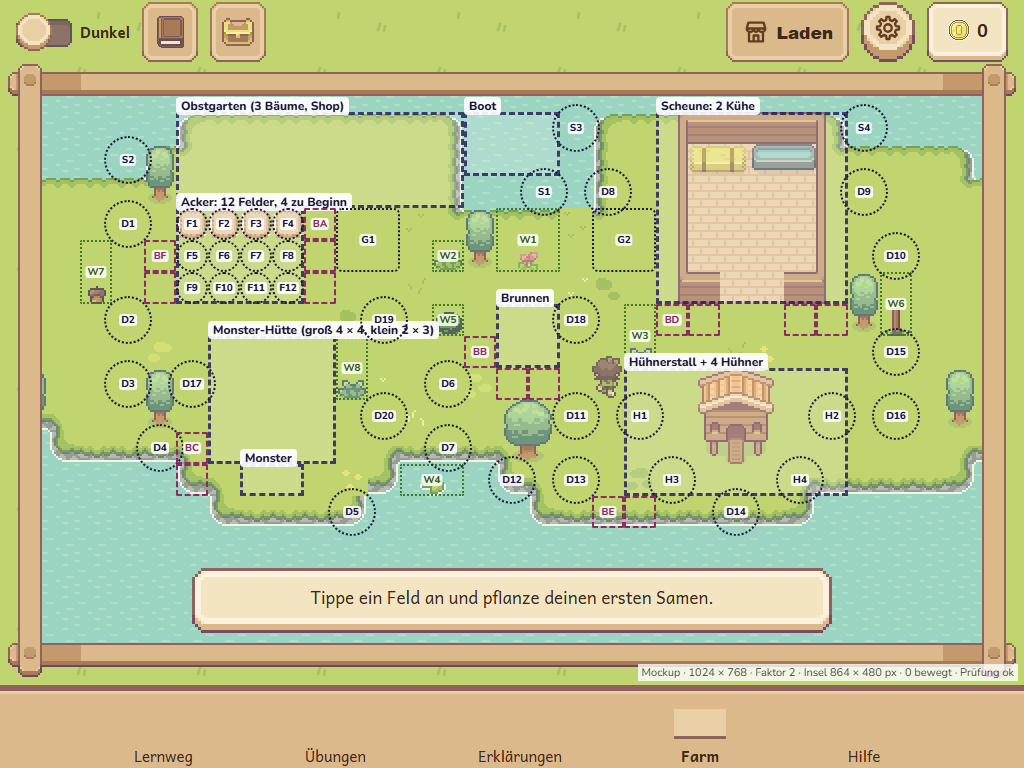
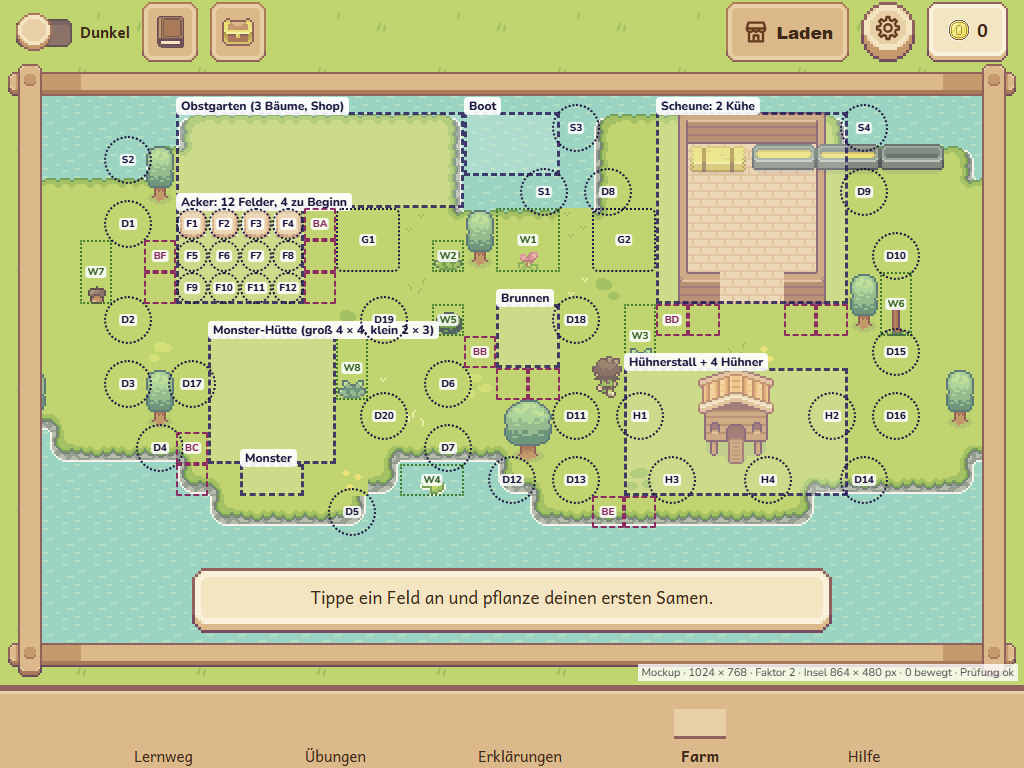
Farm Schritt 1: Rückmeldungen von Jazz
Meer nur im Rahmen, Trog mit Heu und antippbar wie der Napf, Huhn nicht am Ufer, Hunger-Meldung mit Hinweis,
Meldung oben in der Kopfzeile, Insel senkrecht mittig; Mockup: Herbst-Eiche, Trog leer.

Changed region(s): [[0.6875, 0.5938, 0.875, 0.6875], [0.7188, 0.1875, 0.9375, 0.2188]]

diff --git a/src/schueler/Farm.tsx b/src/schueler/Farm.tsx
@@ -22,7 +22,9 @@ import { FarmTier } from './FarmTier'
 
 const TEMPO = 50 // Grafik-Pixel pro Sekunde
 const RAND_UNTEN = 8 // Luft zwischen Farm und Menü unten (CSS-Pixel)
+const MEER_RAND = { oben: 10, seite: 12 } // durchsichtiger Außenrand des Rahmenbilds (2-fach)
 const RAHMEN_B = 68, RAHMEN_H = 66 // Holzrahmen des Spielfensters links + rechts bzw. oben + unten (CSS-Pixel)
+const flaecheVon = (o: Ort, breite: number): Ort[] => Array.from({ length: breite }, (_, i) => ({ x: o.x + i, y: o.y }))
 const ruhig = () => window.matchMedia('(prefers-reduced-motion: reduce)').matches
 const TIER_NAME: Record<string, string> = { huhn: 'Huhn', kuh: 'Kuh' }
 // Mitte einer Kachel, Füße der Figur etwas unterhalb der Mitte
@@ -44,8 +46,8 @@ export function Farm({ token, shop, album, figur: figurName, nachFigur }: { toke
   const [mal, setMal] = useState(2)
   const [flaeche, setFlaeche] = useState({ breite: 0, hoehe: 0 }) // Innenfläche des Spielfensters (ohne Holzrahmen)
   // Jazz 2026-11-17 (E5): Sammelalbum, Vorrat, Laden und Zahnrad stehen in der Kopfzeile der Seite (Plätze legt SchuelerBereich an)
-  const [kopf, setKopf] = useState<{ links: HTMLElement | null; rechts: HTMLElement | null }>({ links: null, rechts: null })
-  useEffect(() => setKopf({ links: document.getElementById('kopf-links'), rechts: document.getElementById('kopf-rechts') }), [])
+  const [kopf, setKopf] = useState<{ links: HTMLElement | null; mitte: HTMLElement | null; rechts: HTMLElement | null }>({ links: null, mitte: null, rechts: null })
+  useEffect(() => setKopf({ links: document.getElementById('kopf-links'), mitte: document.getElementById('kopf-mitte'), rechts: document.getElementById('kopf-rechts') }), [])
   const [figur, setFigur] = useState({ ...mitte(FIGUR_START), richtung: 4, dauer: 0 })
   const rahmen = useRef<HTMLDivElement>(null)
   const leinwand = useRef<HTMLCanvasElement>(null)
@@ -87,6 +89,9 @@ export function Farm({ token, shop, album, figur: figurName, nachFigur }: { toke
     }
     const beob = new ResizeObserver(passen)
     beob.observe(el)
+    // die Meldung oben kann die Kopfzeile höher machen: dann neu rechnen, damit die Seite nicht scrollt
+    const kopfzeile = document.querySelector('.muenzen-stand')
+    if (kopfzeile) beob.observe(kopfzeile)
     window.addEventListener('resize', passen)
     return () => {
       beob.disconnect()
@@ -104,7 +109,7 @@ export function Farm({ token, shop, album, figur: figurName, nachFigur }: { toke
   useEffect(() => {
     const ctx = leinwand.current?.getContext('2d')
     if (!ctx || !daten) return
-    const namen = ['wasser', 'gras', 'gras_deko', 'feld', 'wand', 'heu', 'trog', 'baum', 'baum_klein', 'stall'] as const
+    const namen = ['wasser', 'gras', 'gras_deko', 'feld', 'wand', 'heu', 'baum', 'baum_klein', 'stall'] as const
     const bilder = Object.fromEntries(namen.map((n) => [n, Object.assign(new Image(), { src: GRAFIK[n].url })])) as Record<(typeof namen)[number], HTMLImageElement>
     const kachel = (name: (typeof namen)[number], nummer: number, x: number, y: number) => {
       const q = einzelbild(GRAFIK[name], nummer)
@@ -121,13 +126,12 @@ export function Farm({ token, shop, album, figur: figurName, nachFigur }: { toke
       ctx.drawImage(bilder.stall, STALL.x * KACHEL, STALL.y * KACHEL)
       for (const k of scheunenKacheln()) kachel('wand', k.nummer, k.x, k.y)
       ctx.drawImage(bilder.heu, HEU.x * KACHEL, HEU.y * KACHEL)
-      ctx.drawImage(bilder.trog, trogVoll ? 0 : 64, 0, 32, 16, TROG.x * KACHEL, TROG.y * KACHEL, 32, 16)
       for (const b of BAEUME) ctx.drawImage(bilder[b.grafik], b.x * KACHEL, b.y * KACHEL)
     })
     return () => {
       aktiv = false
     }
-  }, [daten === null, felder, trogVoll])
+  }, [daten === null, felder])
 
   useEffect(() => () => window.clearTimeout(ankunft.current), [])
 
@@ -192,10 +196,10 @@ export function Farm({ token, shop, album, figur: figurName, nachFigur }: { toke
   }
 
   const px = (kacheln: number) => kacheln * KACHEL * mal
-  // Lage der Insel im Spielfenster: Kern (27 Kacheln) waagerecht mittig, oben eine halbe Wasserreihe angeschnitten (Rahmen 34 bzw. 32 px)
+  // Lage der Insel im Spielfenster: Kern (27 Kacheln) waagerecht und senkrecht mittig (Rahmen 34 bzw. 32 px)
   const insel = {
     links: 34 + Math.floor((flaeche.breite - 27 * KACHEL * mal) / 2) - RAND * KACHEL * mal,
-    oben: 32 + Math.min(-Math.floor((KACHEL * mal) / 2), Math.floor((flaeche.hoehe - ZEILEN * KACHEL * mal) / 2)),
+    oben: 32 + Math.floor((flaeche.hoehe - ZEILEN * KACHEL * mal) / 2), // unten liegt keine Meldung mehr: Insel senkrecht mittig
   }
   // Deko lässt sich im Fenster „Farm einrichten“ ausblenden (gekauft bleibt sie)
   const dekoArten = daten.dinge.map((d) => d.artikel).filter((id) => !['huhn', 'kuh'].includes(id))
@@ -319,6 +323,29 @@ export function Farm({ token, shop, album, figur: figurName, nachFigur }: { toke
     )
   }
 
+  // Jazz 2026-11-17: Napf und Trog antippen öffnet das Füttern für das erste hungrige Tier daran (sonst das erste)
+  function futterKnopf(key: string, name: string, tiere: { id: string; satt: boolean }[], grafik: Grafik, nummer: number, o: Ort, breite: number, bild: { x: number; y: number }) {
+    const ziel = tiere.find((t) => !t.satt) ?? tiere[0]
+    return (
+      <button
+        key={key}
+        type="button"
+        className="farm-ding farm-futter"
+        style={{ left: px(o.x), top: px(o.y), width: px(breite), height: px(1), zIndex: (o.y + 1) * KACHEL }}
+        aria-label={!tiere.length ? `${name}, leer` : ziel.satt ? `${name}, voll` : `${name}, leer: antippen zum Füttern`}
+        onClick={() =>
+          gehe(nebenan(flaecheVon(o, breite)), () =>
+            ziel ? setMenue({ art: 'tier', id: ziel.id }) : setMeldung(name === 'Trog' ? 'Hier fressen deine Kühe. Kühe gibt es im Laden.' : 'Hier fressen deine Hühner. Hühner gibt es im Laden.'),
+          )
+        }
+      >
+        <span className="farm-ding" style={{ left: bild.x - px(o.x), top: bild.y - px(o.y) }}>
+          <Sprite grafik={grafik} nummer={nummer} mal={mal} />
+        </span>
+      </button>
+    )
+  }
+
   const tier = menue?.art === 'tier' ? daten.tiere.find((t) => t.id === menue.id) : undefined
 
   // Lehrkraft 2026-11-12: statt Haken sagt die Figur, was reif ist
@@ -328,7 +355,14 @@ export function Farm({ token, shop, album, figur: figurName, nachFigur }: { toke
   ]
   // Jazz 2026-11-17 (E4): Meldung, solange ein Tier hungrig ist
   const hungrigH = huehner.some((t) => !t.satt), hungrigK = kuehe.some((t) => !t.satt)
-  const hungerText = hungrigH && hungrigK ? 'Deine Tiere sind hungrig.' : hungrigH ? 'Deine Hühner sind hungrig.' : hungrigK ? 'Deine Kühe sind hungrig.' : null
+  // Jazz 2026-11-17: die Meldung sagt auch, was man antippt
+  const hungerText = hungrigH && hungrigK
+    ? 'Deine Tiere sind hungrig. Tippe ein Tier, den Napf oder den Trog an.'
+    : hungrigH
+      ? 'Deine Hühner sind hungrig. Tippe ein Huhn oder den Napf an.'
+      : hungrigK
+        ? 'Deine Kühe sind hungrig. Tippe eine Kuh oder den Trog an.'
+        : null
   const grundText = hungerText ?? (daten.pflanzen.length === 0 && felder > 0 ? 'Tippe ein Feld an und pflanze deinen ersten Samen.' : 'Tippe irgendwohin, dann läuft deine Figur hin. Tippe Felder, Tiere und Bäume an.')
   const blasenText = reifes.length > 1 ? 'Ich kann mehrere Dinge ernten!' : reifes.length ? `${reifes[0]} kann geerntet werden!` : null
 
@@ -363,6 +397,20 @@ export function Farm({ token, shop, album, figur: figurName, nachFigur }: { toke
           </>,
           kopf.rechts,
         )}
+      {/* Usability-Test 2026-11-13: Meldungen an festem Platz; Jazz 2026-11-17: als Papier-Schild oben in der Kopfzeile (Mitte) */}
+      {kopf.mitte &&
+        createPortal(
+          <div className="farm-meldung">
+            {fehler ? (
+              <p role="alert">{fehler}</p>
+            ) : (
+              <p role="status" className={meldung || hungerText ? undefined : 'leise'}>
+                {meldung ?? grundText}
+              </p>
+            )}
+          </div>,
+          kopf.mitte,
+        )}
       {/* Jazz 2026-11-17: im Hochformat nur dieser Hinweis (bausteine.css) */}
       <p className="farm-drehen" role="status">
         Dreh dein iPad, dann siehst du deine Farm.
@@ -371,19 +419,11 @@ export function Farm({ token, shop, album, figur: figurName, nachFigur }: { toke
         {/* Jazz 2026-11-14: Holzrahmen wie ein Spielfenster; liegt über dem Rand (bausteine.css), innen Meer in Kachelgröße */}
         <div
           className="spiel-fenster"
-          style={{ height: flaeche.hoehe + RAHMEN_H, backgroundImage: `url(${GRAFIK.wasser.url})`, backgroundSize: px(1), backgroundPosition: `${insel.links}px ${insel.oben}px` }}
+          style={{ height: flaeche.hoehe + RAHMEN_H }}
         >
-        {/* Usability-Test 2026-11-13: Meldungen an festem Platz; Jazz 2026-11-15: als Papier-Banner unten im Meer */}
-        <div className="farm-meldung">
-          {fehler ? (
-            <p role="alert">{fehler}</p>
-          ) : (
-            <p role="status" className={meldung || hungerText ? undefined : 'leise'}>
-              {meldung ?? grundText}
-            </p>
-          )}
-        </div>
-        <div className="farm-landschaft" style={{ width: px(SPALTEN), height: px(ZEILEN), left: insel.links, top: insel.oben }} onClick={inDieLandschaft}>
+        {/* Meer und Insel nur innerhalb des Rahmens: das Rahmenbild ist außen 10 bis 12 px durchsichtig (MEER_RAND), dort nichts zeigen */}
+        <div className="farm-meer" style={{ inset: `${MEER_RAND.oben}px ${MEER_RAND.seite}px ${MEER_RAND.seite}px`, backgroundImage: `url(${GRAFIK.wasser.url})`, backgroundSize: px(1), backgroundPosition: `${insel.links - MEER_RAND.seite}px ${insel.oben - MEER_RAND.oben}px` }}>
+        <div className="farm-landschaft" style={{ width: px(SPALTEN), height: px(ZEILEN), left: insel.links - MEER_RAND.seite, top: insel.oben - MEER_RAND.oben }} onClick={inDieLandschaft}>
           <canvas ref={leinwand} width={SPALTEN * KACHEL} height={ZEILEN * KACHEL} style={{ width: px(SPALTEN), height: px(ZEILEN) }} aria-hidden="true" />
 
           {Array.from({ length: felder }, (_, feld) => {
@@ -449,8 +489,9 @@ export function Farm({ token, shop, album, figur: figurName, nachFigur }: { toke
           {NAPF_PLAETZE.map((o, n) => {
             const seine = huehner.filter((_, i) => i % 2 === n)
             if (!seine.length) return null
-            return <Ding key={`napf${n}`} grafik={GRAFIK.napf} nummer={seine.every((t) => t.satt) ? 1 : 0} x={px(o.x) + mal} y={px(o.y) + 8 * mal} mal={mal} z={(o.y + 1) * KACHEL} />
+            return futterKnopf(`napf${n}`, 'Napf', seine, GRAFIK.napf, seine.every((t) => t.satt) ? 1 : 0, o, 1, { x: px(o.x) + mal, y: px(o.y) + 8 * mal })
           })}
+          {futterKnopf('trog', 'Trog', kuehe, GRAFIK.trog, trogVoll ? 0 : 2, TROG, 2, { x: px(TROG.x), y: px(TROG.y) })}
           {huehner.map((t, i) => tierKnopf(t, HUHN_PLAETZE[i], 1, i))}
           {kuehe.map((t, i) => tierKnopf(t, KUH_PLAETZE[i], 2, i))}
           {daten.liegen.map((d, i) => {
@@ -514,6 +555,7 @@ export function Farm({ token, shop, album, figur: figurName, nachFigur }: { toke
               {blasenText}
             </span>
           )}
+        </div>
         </div>
         </div>
       </div>

diff --git a/src/design/bausteine.css b/src/design/bausteine.css
@@ -661,14 +661,14 @@ p { margin: 0; text-wrap: pretty; max-width: 65ch; }
 .farm-landschaft canvas { display: block; image-rendering: pixelated; clip-path: inset(10px 12px 12px 12px); }
 .farm-landschaft .sprite { image-rendering: pixelated; }
 .farm-ding { position: absolute; pointer-events: none; line-height: 0; }
-.farm-feld, .farm-tier, .farm-liegt, .farm-baum, .farm-monster {
+.farm-feld, .farm-tier, .farm-liegt, .farm-baum, .farm-monster, .farm-futter {
   position: absolute; display: grid; place-items: center; line-height: 0;
   padding: 0; border: none; background: none; cursor: pointer; pointer-events: auto;
 }
 /* Tippfläche mindestens 48 px, auch wenn Feld oder Huhn kleiner gezeichnet sind */
-.farm-feld::before, .farm-tier::before, .farm-liegt::before, .farm-baum::before, .farm-monster::before { content: ''; position: absolute; inset: min(0px, calc((100% - 48px) / 2)); }
+.farm-feld::before, .farm-tier::before, .farm-liegt::before, .farm-baum::before, .farm-monster::before, .farm-futter::before { content: ''; position: absolute; inset: min(0px, calc((100% - 48px) / 2)); }
 .farm-feld[aria-pressed='true'] { outline: 3px solid var(--color-aktion); outline-offset: 1px; }
-.farm-feld:focus-visible, .farm-tier:focus-visible, .farm-liegt:focus-visible, .farm-baum:focus-visible, .farm-monster:focus-visible { outline: 3px solid var(--color-aktion); }
+.farm-feld:focus-visible, .farm-tier:focus-visible, .farm-liegt:focus-visible, .farm-baum:focus-visible, .farm-monster:focus-visible, .farm-futter:focus-visible { outline: 3px solid var(--color-aktion); }
 /* Pflanzen stehen mitten im Feld (Lehrkraft 2026-11-12) */
 /* Obstbäume: Bild 48 × 48 ragt über die 2 × 2 Kacheln hinaus; stehen still, nur beim Ernten fallen die Früchte einmal */
 .farm-baum__bild { position: absolute; line-height: 0; pointer-events: none; }
@@ -952,7 +952,16 @@ a.ranke__text:focus-visible { outline: 3px solid var(--color-aktion); outline-of
 /* Die Farm endet schon über dem Menü unten (Farm.tsx rechnet die Höhe aus): kein Abstand darunter, sonst scrollt die Seite */
 .garten-seite--farm { padding-bottom: 0; }
 .kopf-knoepfe { display: flex; align-items: center; gap: var(--space-xs); }
-.kopf-knoepfe--rechts { margin-left: auto; }
+/* Meldung oben in der Mitte der Kopfzeile: Papier-Schild, nimmt den freien Platz, darf zweizeilig werden */
+.garten-seite--farm .muenzen-stand { flex-wrap: nowrap; }
+.kopf-mitte { flex: 1 1 0; min-width: 0; display: flex; justify-content: center; }
+.kopf-mitte .farm-meldung {
+  max-width: 100%; box-sizing: border-box; padding: 2px var(--space-xs); border: solid transparent; border-width: 10px;
+  border-image: url('../grafik/tafel.png') 5 fill / 10px; image-rendering: pixelated;
+  color: var(--color-album-tinte); text-align: center; font-size: 17px; line-height: 1.25;
+}
+.kopf-mitte .farm-meldung p { margin: 0; }
+.kopf-mitte .farm-meldung .leise { color: var(--color-album-tinte); }
 .farm-bildknopf--laden {
   width: auto; display: inline-flex; gap: var(--space-xs); padding: 0 var(--space-xs); align-items: center;
   color: var(--color-album-tinte); font-weight: 800; font-size: 17px; line-height: 1; text-decoration: none;
@@ -963,6 +972,7 @@ a.ranke__text:focus-visible { outline: 3px solid var(--color-aktion); outline-of
 .garten-seite--farm .garten-seite__inhalt { max-width: none; }
 .farm-rahmen { overflow: hidden; }
 .farm-rahmen > .spiel-fenster { width: 100%; box-sizing: border-box; overflow: hidden; background-repeat: repeat; image-rendering: pixelated; }
+.farm-meer { position: absolute; overflow: hidden; image-rendering: pixelated; }
 .farm-rahmen .farm-landschaft { position: absolute; margin: 0; }
 .farm-rahmen .farm-landschaft canvas { clip-path: none; }
 .farm-rahmen .farm-meldung { max-width: calc(100% - 100px); }

diff --git a/docs/farm/farm-mockup.js b/docs/farm/farm-mockup.js
@@ -37,7 +37,7 @@ const OBSTBAEUME = [{ x: 3, y: 1, n: 'Orange' }, { x: 6, y: 1, n: 'Pfirsich' }, 
 const SCHEUNE = { x: 18, y: 1, b: 6, h: 6 }
 const KUEHE = [{ x: 19, y: 3 }, { x: 21, y: 3 }] // je 2 × 2, höchstens 2 (Jazz 2026-11-17)
 const STALL = { x: 19, y: 9 } // 3 × 3
-const HUEHNER = [{ x: 17, y: 10 }, { x: 23, y: 10 }, { x: 18, y: 12 }, { x: 22, y: 12 }]
+const HUEHNER = [{ x: 17, y: 10 }, { x: 23, y: 10 }, { x: 18, y: 12 }, { x: 21, y: 12 }] // Jazz 2026-11-17: Huhn 4 nicht am Ufer
 // Jazz 2026-11-17: Hütte weiter oben, der Eingang zeigt nicht mehr aufs Wasser. Platz 4 × 4 für die große Hütte (heutiges Bild);
 // kleine Monster (Gespenst, Spinnen, Maus) bekommen eine kleine Hütte 2 × 3 unten mittig auf diesem Platz:
 // Jazz 2026-11-17: der kleine Hühnerstall mit einem Fenster aus dem Premium-Paket (Chikcen_Houses.png, 6 Dachfarben)
@@ -52,7 +52,7 @@ const FIGUR = { x: 16, y: 8 } // Füße auf Zeile 9
 const WACHSEND = WACHS
 // Deko-Plätze in drei Größen: klein 1 × 1 (D), groß 2 × 2 (G), im Wasser 1 × 1 (S)
 const DEKO = [[1, 4], [1, 7], [1, 9], [2, 11], [8, 13], [11, 9], [11, 11], [16, 3], [24, 3], [25, 5],
-  [15, 10], [13, 12], [15, 12], [20, 13], [25, 8], [25, 10],
+  [15, 10], [13, 12], [15, 12], [24, 12], [25, 8], [25, 10],
   // Jazz 2026-11-17: nicht in einer Reihe, sondern wie zufällig: Baumstumpf beim Baum, Laterne am Brunnen, Briefkasten am Hofweg, Fels am Ufer
   [3, 9], [15, 7], [9, 7], [9, 10]].map(([x, y]) => ({ x, y }))
 // Jazz 2026-11-17: mehr Blumen. Blumenbeete aus 2 bis 4 Kacheln; die Blumen eines Beets stehen dicht (wie die Felder),
@@ -176,7 +176,7 @@ async function zeichnen() {
     const tuer = y === SCHEUNE.y + SCHEUNE.h - 1 && (x === 20 || x === 21)
     teil(B.wand, tuer ? 4 : ze * 3 + sp, 3, x, y)
   }
-  ctx.drawImage(B.heu, 19 * K, 2 * K); ctx.drawImage(B.trog, 21 * K, 2 * K)
+  ctx.drawImage(B.heu, 19 * K, 2 * K); ctx.drawImage(B.trog, 64, 0, 32, 16, 21 * K, 2 * K, 32, 16) // leerer Trog (Bild 3 von 3), Jazz E4
   ctx.drawImage(B.stall, STALL.x * K, STALL.y * K)
   ctx.setTransform(1, 0, 0, 1, 0, 0)
 
@@ -247,7 +247,7 @@ function volleFarm(p, setze, platzhalter) {
   const napf = `<div class="sprite" style="width:${14 * m}px;height:${8 * m}px;margin:${8 * m}px 0 0 ${m}px;background:url('../../assets/neu/napf_1.png') 0 0/${14 * m}px ${8 * m}px"></div>`
   ding(napf, 17, 9, 1, 1) // Napf steht über dem Huhn, so bleibt rechts vom Stall Luft
   ding(napf, 23, 9, 1, 1)
-  platzhalter('Trog leer', 21, 2, 2, 1)
+  // leerer Trog steht schon im Hintergrund (Bild 3 von 3)
   // Monster (Maus) vor seiner Hütte (Dach Nr. 3), läuft hin und her; sein Geschenk liegt daneben und hüpft
   // Die Maus ist ein kleines Monster: kleiner Hühnerstall (32 × 48, lila Dach) als Hütte.
   // shortcut: liest das Bild direkt aus dem Paketordner assets/ (nicht im Repo, nur auf dem Rechner der Lehrkraft); im Spiel käme es nach src/grafik/

diff --git a/docs/farm/wachsende-deko.js b/docs/farm/wachsende-deko.js
@@ -8,6 +8,9 @@ const SEEROSE = { u: PAKET + 'Sprout Sorry pack/Early Access/Plant update 2/Cher
 const BAEUME2 = { u: PAKET + 'Sprout Sorry pack/Early Access/Plant update 2/Trees, stumps and bushes v2.png', w: 192, h: 128 }
 // Jazz: Eiche hellgrün, Beerenbusch dunkelgrün, damit sie sich von den Obstbäumen (Türkisgrün) abheben (Regeln aus farben.js)
 const EICHE_GRUEN = rampe('tuerkisgruen', 'gruen')
+// Jazz 2026-11-17: Eiche hebt sich noch zu wenig ab, darum Herbst-Eiche: kleiner Herbstbaum aus dem Halloween-Bogen, Stufe 4 herbstlich gefärbt
+const HERBST = { u: PAKET + 'Sprout Sorry pack/Early Access/halloween/fall_trees.png', w: 240, h: 96 }
+const EICHE_HERBST = rampe('tuerkisgruen', 'orange')
 const BUSCH_GRUEN = rampe('tuerkisgruen', 'gruen', -2)
 const GRAS_WIE_LAVENDEL = rampe('tuerkisgruen', 'gruen')
 // Neue Bilder: Vogelhaus, Lavendel, Napf von Claude nach den Gemini-Vorlagen von Jazz gezeichnet (handgezeichnet.cjs); liegen in assets/neu/ (nicht im Repo)
@@ -38,7 +41,7 @@ const WACHS = [
     ['Vogelhaus mit Futter', NEU('vogelhaus_4', 14, 32)], ['Vogel sitzt auf dem Dach', NEU('vogelhaus_5', 14, 32)]] },
   { n: 'W7', name: 'Eiche', x: 0, y: 5, b: 1, h: 2, stufen: [
     ['Eichel', [BAEUME2, 3, 4, 9, 9], [EICHE_GRUEN]], ['Eichel keimt', [BAEUME2, 2, 20, 10, 11], [EICHE_GRUEN]], ['Sprössling', [BAEUME2, 2, 37, 10, 10], [EICHE_GRUEN]],
-    ['kleiner Baum', [BAEUME2, 18, 16, 12, 15], [EICHE_GRUEN]], ['junge Eiche', [BAEUME2, 49, 17, 14, 29], [EICHE_GRUEN]]] },
+    ['kleiner Baum im Herbstlaub', [BAEUME2, 18, 16, 12, 15], [EICHE_HERBST]], ['Eiche im Herbstlaub', [HERBST, 4, 61, 24, 33]]] },
   // Jazz: statt Windrad eine zweite Sonnenblume
   { n: 'W8', name: 'Sonnenblume', x: 8, y: 8, b: 1, h: 2, stufen: SONNENBLUME },
 ]
@@ -48,7 +51,7 @@ function wachsBild(w, s, mal) {
   const [t, q, regeln] = w.stufen[s]
   if (!q) return `<div class="platzhalter" style="position:absolute;inset:0">neu: ${w.name}<br>${t}</div>`
   const [datei, x, y, qw, qh, bw = qw, bh = qh] = q
-  const links = Math.round((w.b * 16 - bw) / 2) * mal, oben = Math.max(0, w.h * 16 - bh) * mal
+  const links = Math.round((w.b * 16 - bw) / 2) * mal, oben = (w.h * 16 - bh) * mal // unten bündig, Höheres ragt nach oben
   if (regeln) return farbBild(q, regeln, mal, `position:absolute;left:${links}px;top:${oben}px;`)
   return `<div class="sprite" style="position:absolute;left:${links}px;top:${oben}px;width:${bw * mal}px;height:${bh * mal}px;` +
     `background:url('${datei.u}') -${x * mal}px -${y * mal}px/${datei.w * mal}px ${datei.h * mal}px"></div>`

diff --git a/src/lib/landschaft.ts b/src/lib/landschaft.ts
@@ -39,7 +39,7 @@ const kern = (x: number, y: number): Ort => ({ x: x + RAND, y })
 // Felder dicht wie heute (Jazz, E3), 4 × 3 links
 export const FELD_PLAETZE: Ort[] = Array.from({ length: 12 }, (_, i) => kern(3 + (i % 4), 4 + Math.floor(i / 4)))
 export const STALL: Ort = kern(19, 9) // 3 × 3 Kacheln
-export const HUHN_PLAETZE: Ort[] = [kern(17, 10), kern(23, 10), kern(18, 12), kern(22, 12)]
+export const HUHN_PLAETZE: Ort[] = [kern(17, 10), kern(23, 10), kern(18, 12), kern(21, 12)] // Jazz 2026-11-17: Huhn 4 nicht am Ufer
 // Napf (Jazz, E4): links vom Stall für Huhn 1 und 3, rechts für Huhn 2 und 4; leer, solange eines davon hungrig ist
 export const NAPF_PLAETZE: Ort[] = [kern(17, 9), kern(23, 9)]
 // Scheune von oben mit offenem Dach; unten in der Mitte ein Durchgang ohne Tür (2 Kacheln).
@@ -63,7 +63,7 @@ export const BOOT: Ort = kern(12, 1)
 // 20 kleine Deko-Plätze, bewusst nicht in Reihen (Jazz, E9); zwischen zwei antippbaren kleinen Dingen liegt eine freie Kachel
 export const DEKO_PLAETZE: Ort[] = [
   [1, 4], [1, 7], [1, 9], [2, 11], [8, 13], [11, 9], [11, 11], [16, 3], [24, 3], [25, 5],
-  [15, 10], [13, 12], [15, 12], [20, 13], [25, 8], [25, 10], [3, 9], [15, 7], [9, 7], [9, 10],
+  [15, 10], [13, 12], [15, 12], [24, 12], [25, 8], [25, 10], [3, 9], [15, 7], [9, 7], [9, 10],
 ].map(([x, y]) => kern(x, y))
 // Monster, das auf der Farm wohnt (Jazz 2026-11-15/17): Hütte links unter dem Acker, Eingang nicht am Wasser; Laufweg vor der Tür.
 // Große Hütte 4 × 4 (Hindernis die unteren 2 Reihen), kleine Hütte 2 × 3 unten mittig für kleine Monster (Jazz, E10).

diff --git a/src/schueler/SchuelerBereich.tsx b/src/schueler/SchuelerBereich.tsx
@@ -568,7 +568,9 @@ function Rahmen({ basis, aktiv, menue = true, muenzen = null, fenster, titel, fa
           </button>
           {/* Jazz 2026-11-15: Überschrift jeder Seite als Holzschild in der Mitte zwischen Dunkel-Schalter und Münzen (immer an derselben Stelle) */}
           {farmKopf && <div id="kopf-links" className="kopf-knoepfe" />}
-          {farmKopf && <div id="kopf-rechts" className="kopf-knoepfe kopf-knoepfe--rechts" />}
+          {/* Jazz 2026-11-17: Meldung der Farm oben in der Mitte, wo sonst die Überschrift steht */}
+          {farmKopf && <div id="kopf-mitte" className="kopf-mitte" />}
+          {farmKopf && <div id="kopf-rechts" className="kopf-knoepfe" />}
           {titel && (
             <header className="pixel-schild">
               <h1>{titel}</h1>

diff --git a/docs/umbau/STATUS.md b/docs/umbau/STATUS.md
@@ -578,4 +578,5 @@ Sechs Teilaufgaben (1 Analyse, 2 Layout leer, 3 Layout voll, 4 Dekorationen, 5 M
   Faktor 2 oder 3, Scheune und Stall von Anfang an, Napf und Trog statt Ausrufezeichen, Meldung „Deine … sind hungrig.“, kleine Hütte für kleine Monster,
   Kopfzeile mit Sammelalbum, Vorrat, Laden und Zahnrad, Menü ohne Shop, Hinweis im Hochformat. Migration `hoechstens_zwei_kuehe` (eingespielt,
   DB-Test 162 bestanden). Geprüft im Browser bei 1024 × 768, 1180 × 820, 1366 × 1024 (kein Scrollen), Feld-Menü und Laden-Knopf. Nicht geprüft: echtes iPad, Hochformat am iPad.
+- **Rückmeldung Jazz zu Schritt 1 (2026-11-17), umgesetzt:** Meer nur innerhalb des Rahmens; Trog mit Heu statt Wasser, Trog und Napf antippbar (öffnen das Füttern); Huhn 4 nicht mehr am Ufer (Deko-Platz D14 nach x 24, y 12); Hunger-Meldung sagt, was man antippt; **Meldung oben in der Kopfzeile** statt unten (geprüft: längste Meldung zweizeilig bei 1024, 1180, 1366 px, kein Scrollen; Insel jetzt senkrecht mittig); Eiche im Mockup als Herbst-Eiche (kleiner Herbstbaum aus halloween/fall_trees.png, Stufe 4 herbstlich); neues Testkonto **Leer-01** (Klasse Test) für eine leere Farm.
 - **Nächster Schritt:** Jazz testet Schritt 1 am iPad; danach Schritt 2 (wachsende Deko) und Schritt 3 (kaufbare Deko mit Plätzen und Farben), Teilaufgabe 5 (Münzsystem) später.
